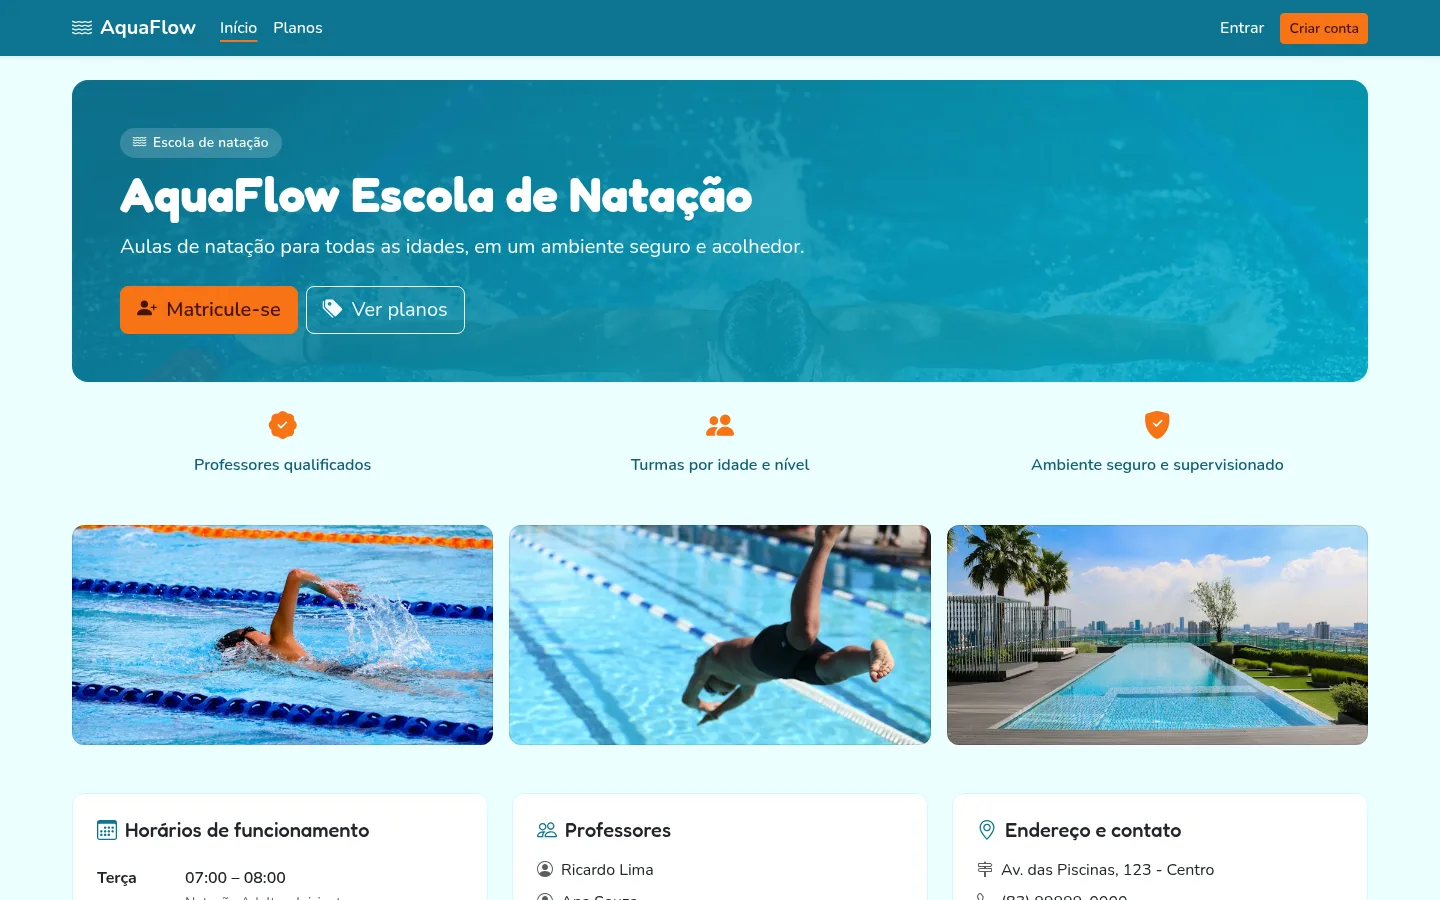
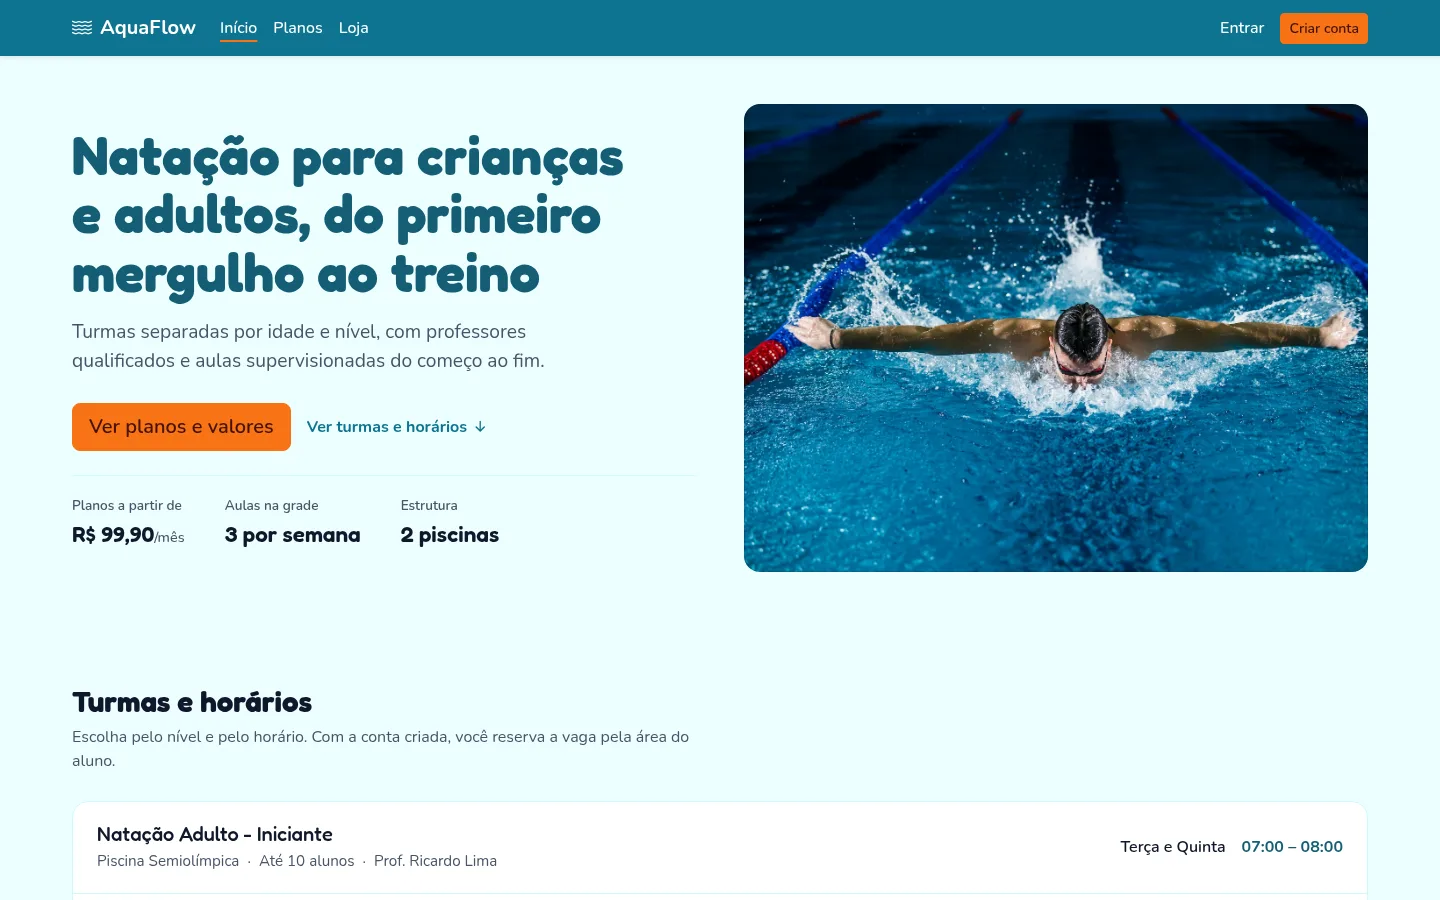
docs: adiciona guia de arquitetura, como contribuir e template de PR

diff --git a/README.md b/README.md
@@ -6,7 +6,7 @@
 ![Spring Boot 3](https://img.shields.io/badge/Spring%20Boot-3.3-6DB33F?logo=springboot&logoColor=white)
 ![PostgreSQL 16](https://img.shields.io/badge/PostgreSQL-16-4169E1?logo=postgresql&logoColor=white)
 
-Sistema de gestão para escola de natação: página institucional, planos mensais, piscinas, turmas, grade de horários, reservas de alunos, chamada de presença e financeiro.
+Sistema de gestão para escola de natação: página institucional, planos mensais, loja, piscinas, turmas, grade de horários, reservas de alunos, chamada de presença e financeiro.
 
 **Homologação:** https://aquaflow-9h8a.onrender.com
 
@@ -14,15 +14,16 @@ Sistema de gestão para escola de natação: página institucional, planos mensa
 
 ![Página inicial](docs/screenshots/home.webp)
 
-| Planos mensais | Login |
+| Planos mensais | Loja |
 | --- | --- |
-| ![Planos](docs/screenshots/planos.webp) | ![Login](docs/screenshots/login.webp) |
+| ![Planos](docs/screenshots/planos.webp) | ![Loja](docs/screenshots/loja.webp) |
 
 ## Funcionalidades
 
 **Público**
-- Página institucional: horários de funcionamento, professores, endereço/contato e piscinas
+- Página inicial: turmas e horários, resumo dos planos, professores, piscinas e contato (tudo vindo do banco)
 - Planos mensais (`/planos`) lado a lado, com plano em destaque e "Falar com o vendedor"
+- Loja (`/loja`): catálogo de equipamentos por categoria, com o desconto de aluno de cada plano
 - Cadastro e login de aluno
 
 **Por papel**
@@ -101,7 +102,7 @@ Também dá para criar uma conta de aluno em `/register`.
 ./mvnw verify
 ```
 
-Os testes sobem a aplicação inteira contra um PostgreSQL real com [Testcontainers](https://testcontainers.com/) (precisa de Docker rodando) e rodam todas as migrations. Eles verificam as páginas públicas, os planos vindos do banco, a proteção das áreas restritas e o login.
+Os testes sobem a aplicação inteira contra um PostgreSQL real com [Testcontainers](https://testcontainers.com/) (precisa de Docker rodando) e rodam todas as migrations. Eles verificam as páginas públicas (home, planos e loja com dados do banco), a proteção das áreas restritas e o login. Há também testes unitários para a lógica de tela que não depende do banco.
 
 ## CI/CD
 
@@ -124,19 +125,23 @@ Para o GitHub disparar o deploy só depois do CI, copie o **Deploy Hook** do ser
 
 ```
 src/main/java/br/edu/aquaflow/
-  config/        Spring Security
+  config/        Spring Security e configurações tipadas (AquaflowProperties)
   domain/        entidades JPA e enums
   repository/    Spring Data JPA
   security/      autenticação e papéis
   service/       regras de negócio (agenda, reserva, chamada, financeiro, contato)
+    site/        montagem das telas públicas (home e loja)
   web/           controllers (público, admin, professor, aluno, plataforma)
 src/main/resources/
-  db/migration/  Flyway (schema, dados de demonstração, planos, mensagens)
-  templates/     Thymeleaf
+  db/migration/  Flyway (schema, dados de demonstração, planos, mensagens, produtos)
+  templates/     Thymeleaf (fragments/ tem head, navbar, footer e alerts)
   static/        CSS e imagens
-src/test/        testes de integração (Testcontainers)
-.github/         CI/CD e Dependabot
+src/test/        testes de integração (Testcontainers) e unitários
+.github/         CI/CD, Dependabot e template de PR
+docs/            arquitetura, créditos das imagens e prints
 ```
+
+Antes de mexer no código, leia [docs/ARQUITETURA.md](docs/ARQUITETURA.md) (camadas, onde fica cada coisa, regras de migration) e [CONTRIBUTING.md](CONTRIBUTING.md) (branches, commits e PRs).
 
 ## Equipe
 
@@ -145,7 +150,7 @@ Planejamento e sprints no [Trello](https://trello.com/b/EetgQnZH/aquaflow-projet
 | Integrante | Papel |
 | --- | --- |
 | Vinícius Ares | Product Owner · deploy |
-| Emanoel Barreto | Scrum Master (Sprint 3) |
+| Emanoel Barreto | Scrum Master (Sprint 3) · catálogo de produtos |
 | Igor Andrade | Desenvolvimento · planos mensais |
 | Luis Eduardo | Desenvolvimento · banco de dados |
 | Ramotep Lopes | Desenvolvimento · planos de gerenciamento |
@@ -154,6 +159,11 @@ Planejamento e sprints no [Trello](https://trello.com/b/EetgQnZH/aquaflow-projet
 
 - [x] MVP: página institucional, agenda, reservas, chamada e financeiro
 - [x] Planos mensais (PB-01)
-- [ ] Catálogo de produtos de natação (PB-03)
+- [x] Catálogo de produtos de natação: listagem (PB-03)
+- [ ] Busca e filtro no catálogo (PB-03)
 - [ ] Contratação de plano com pagamento online (PB-02)
 - [ ] Carrinho e checkout (PB-04)
+
+## Créditos
+
+Fotos dos produtos: Wikimedia Commons. Autores e licenças em [docs/CREDITOS.md](docs/CREDITOS.md).

diff --git a/docs/ARQUITETURA.md b/docs/ARQUITETURA.md
@@ -1,0 +1,63 @@
+# Arquitetura e convenções
+
+Guia rápido para quem vai mexer no código. Se algo aqui ficar desatualizado, corrija no mesmo PR.
+
+## Camadas
+
+```
+web/         Controllers MVC: recebem a requisição, chamam um service e escolhem o template
+service/     Regras de negócio e montagem das telas (transações ficam aqui)
+  site/      Telas públicas: home (HomePageService) e loja (ProductCatalogService)
+repository/  Spring Data JPA: consultas ao banco
+domain/      Entidades JPA e enums (com os textos exibidos, ex.: Weekday, ProductCategory)
+config/      Spring Security e configurações tipadas (AquaflowProperties)
+security/    Login e papéis
+```
+
+Regra de dependência: `web → service → repository → domain`. Um controller não deve montar listas, agrupar dados ou formatar textos: isso vai para um service, que devolve um `record` com o formato da tela (ex.: `HomePageService.HomePage`).
+
+### Controller fino
+
+```java
+@GetMapping("/loja")
+public String index(Model model) {
+    model.addAttribute("catalog", productCatalogService.load());
+    return "products";
+}
+```
+
+### Service de tela
+
+- `@Transactional(readOnly = true)` em métodos que só leem.
+- Devolve `record`s imutáveis com o que o template precisa. O template não deve ter regra de negócio.
+- Lógica pura (formatar horário, juntar nomes) fica em métodos `static` com visibilidade de pacote, para testar sem banco (veja `HomePageServiceTest`).
+
+## Onde ficam as coisas
+
+| Preciso de... | Use |
+| --- | --- |
+| Nome dos dias da semana | `Weekday` (1 = segunda, igual ao banco) |
+| Usuários ativos de um papel | `tenantUserRepository.findActiveUsersByRole(tenantId, role)` |
+| Escola atual | `TenantContext.getTenantId()` |
+| Nome, endereço e telefone da escola | `AquaflowProperties.school()` (nos templates: `${schoolName}`, `${schoolAddress}`, `${schoolPhone}`, `${schoolPhoneHref}`) |
+| `<head>` de uma página | `<head th:replace="~{fragments/head :: head('Título', 'Descrição ou null')}"></head>` |
+| Menu, rodapé e alertas | `fragments/navbar`, `fragments/footer`, `fragments/alerts` |
+| Item ativo no menu | `${currentPath}` (preenchido em `GlobalModelAttributes`) |
+
+## Banco de dados
+
+- Toda mudança de schema é uma migration nova em `src/main/resources/db/migration`, no padrão `V<n>__descricao.sql`. **Nunca edite uma migration que já foi para a `main`**: o Flyway confere o checksum e a aplicação não sobe.
+- `ddl-auto=validate`: se a entidade não bater com o banco, a aplicação não inicia. Isso é intencional.
+- Texto com acento no `application.properties` precisa de escape unicode (`ç`), porque o arquivo é lido em ISO-8859-1.
+
+## Front-end
+
+- Bootstrap 5 + `static/css/aquaflow.css`. Use as variáveis de `:root` (`--color-primary`, `--color-accent`, ...) em vez de cores soltas.
+- Fontes: Fredoka nos títulos das páginas públicas (`.home-page`), Nunito no texto.
+- Hover sempre dentro de `@media (hover: hover)`; animação de movimento dentro de `@media (prefers-reduced-motion: no-preference)`.
+- Imagens novas: `static/img/`, com `width`, `height` e `alt`. Se vierem de terceiros, registre o crédito em [CREDITOS.md](CREDITOS.md).
+
+## Testes
+
+- `PublicPagesSmokeTest` sobe a aplicação com Postgres real (Testcontainers) e roda as migrations. Toda página pública nova ganha um teste ali.
+- Testes unitários ficam no mesmo pacote da classe testada.

diff --git a/CONTRIBUTING.md b/CONTRIBUTING.md
@@ -1,0 +1,28 @@
+# Como contribuir
+
+## Fluxo
+
+1. Pegue um card no [Trello](https://trello.com/b/EetgQnZH/aquaflow-projeto-gps) e mova para "Em andamento".
+2. Crie uma branch a partir da `main`: `feat/s3-03-catalogo`, `fix/acentos-rodape`, `docs/readme`.
+3. Rode `./mvnw verify` antes de abrir o PR (precisa de Docker rodando).
+4. Abra o PR para a `main` citando o card. O CI precisa passar e alguém do time revisa.
+5. Depois do merge, o Render publica sozinho em homologação. Confira o link e mova o card para "Concluído".
+
+**Não faça push direto na `main`**: ela é o que está no ar.
+
+## Commits
+
+Mensagens em português no padrão [Conventional Commits](https://www.conventionalcommits.org/pt-br/):
+
+```
+feat: adiciona pagina da loja (PB-03)
+fix: corrige acentos no nome da escola
+docs: atualiza README
+test: cobre a pagina de planos
+ci: adiciona smoke test pos-deploy
+refactor: move montagem da home para um service
+```
+
+## Código
+
+Leia [docs/ARQUITETURA.md](docs/ARQUITETURA.md) antes de criar uma tela, uma migration ou um service.

diff --git a/.github/pull_request_template.md b/.github/pull_request_template.md
@@ -1,0 +1,14 @@
+## O que muda
+
+<!-- Resumo em 1–3 linhas. Cite o card do Trello (ex.: S3-03 / PB-03). -->
+
+## Como testar
+
+<!-- Passos para quem for revisar. Ex.: entrar como admin → Aulas → Gerar próximas semanas. -->
+
+## Checklist
+
+- [ ] `./mvnw verify` passa localmente
+- [ ] Mudança de banco em migration **nova** (nenhuma migration antiga editada)
+- [ ] Funciona no celular (layout responsivo)
+- [ ] Prints da tela no PR, se mudou algo visual
